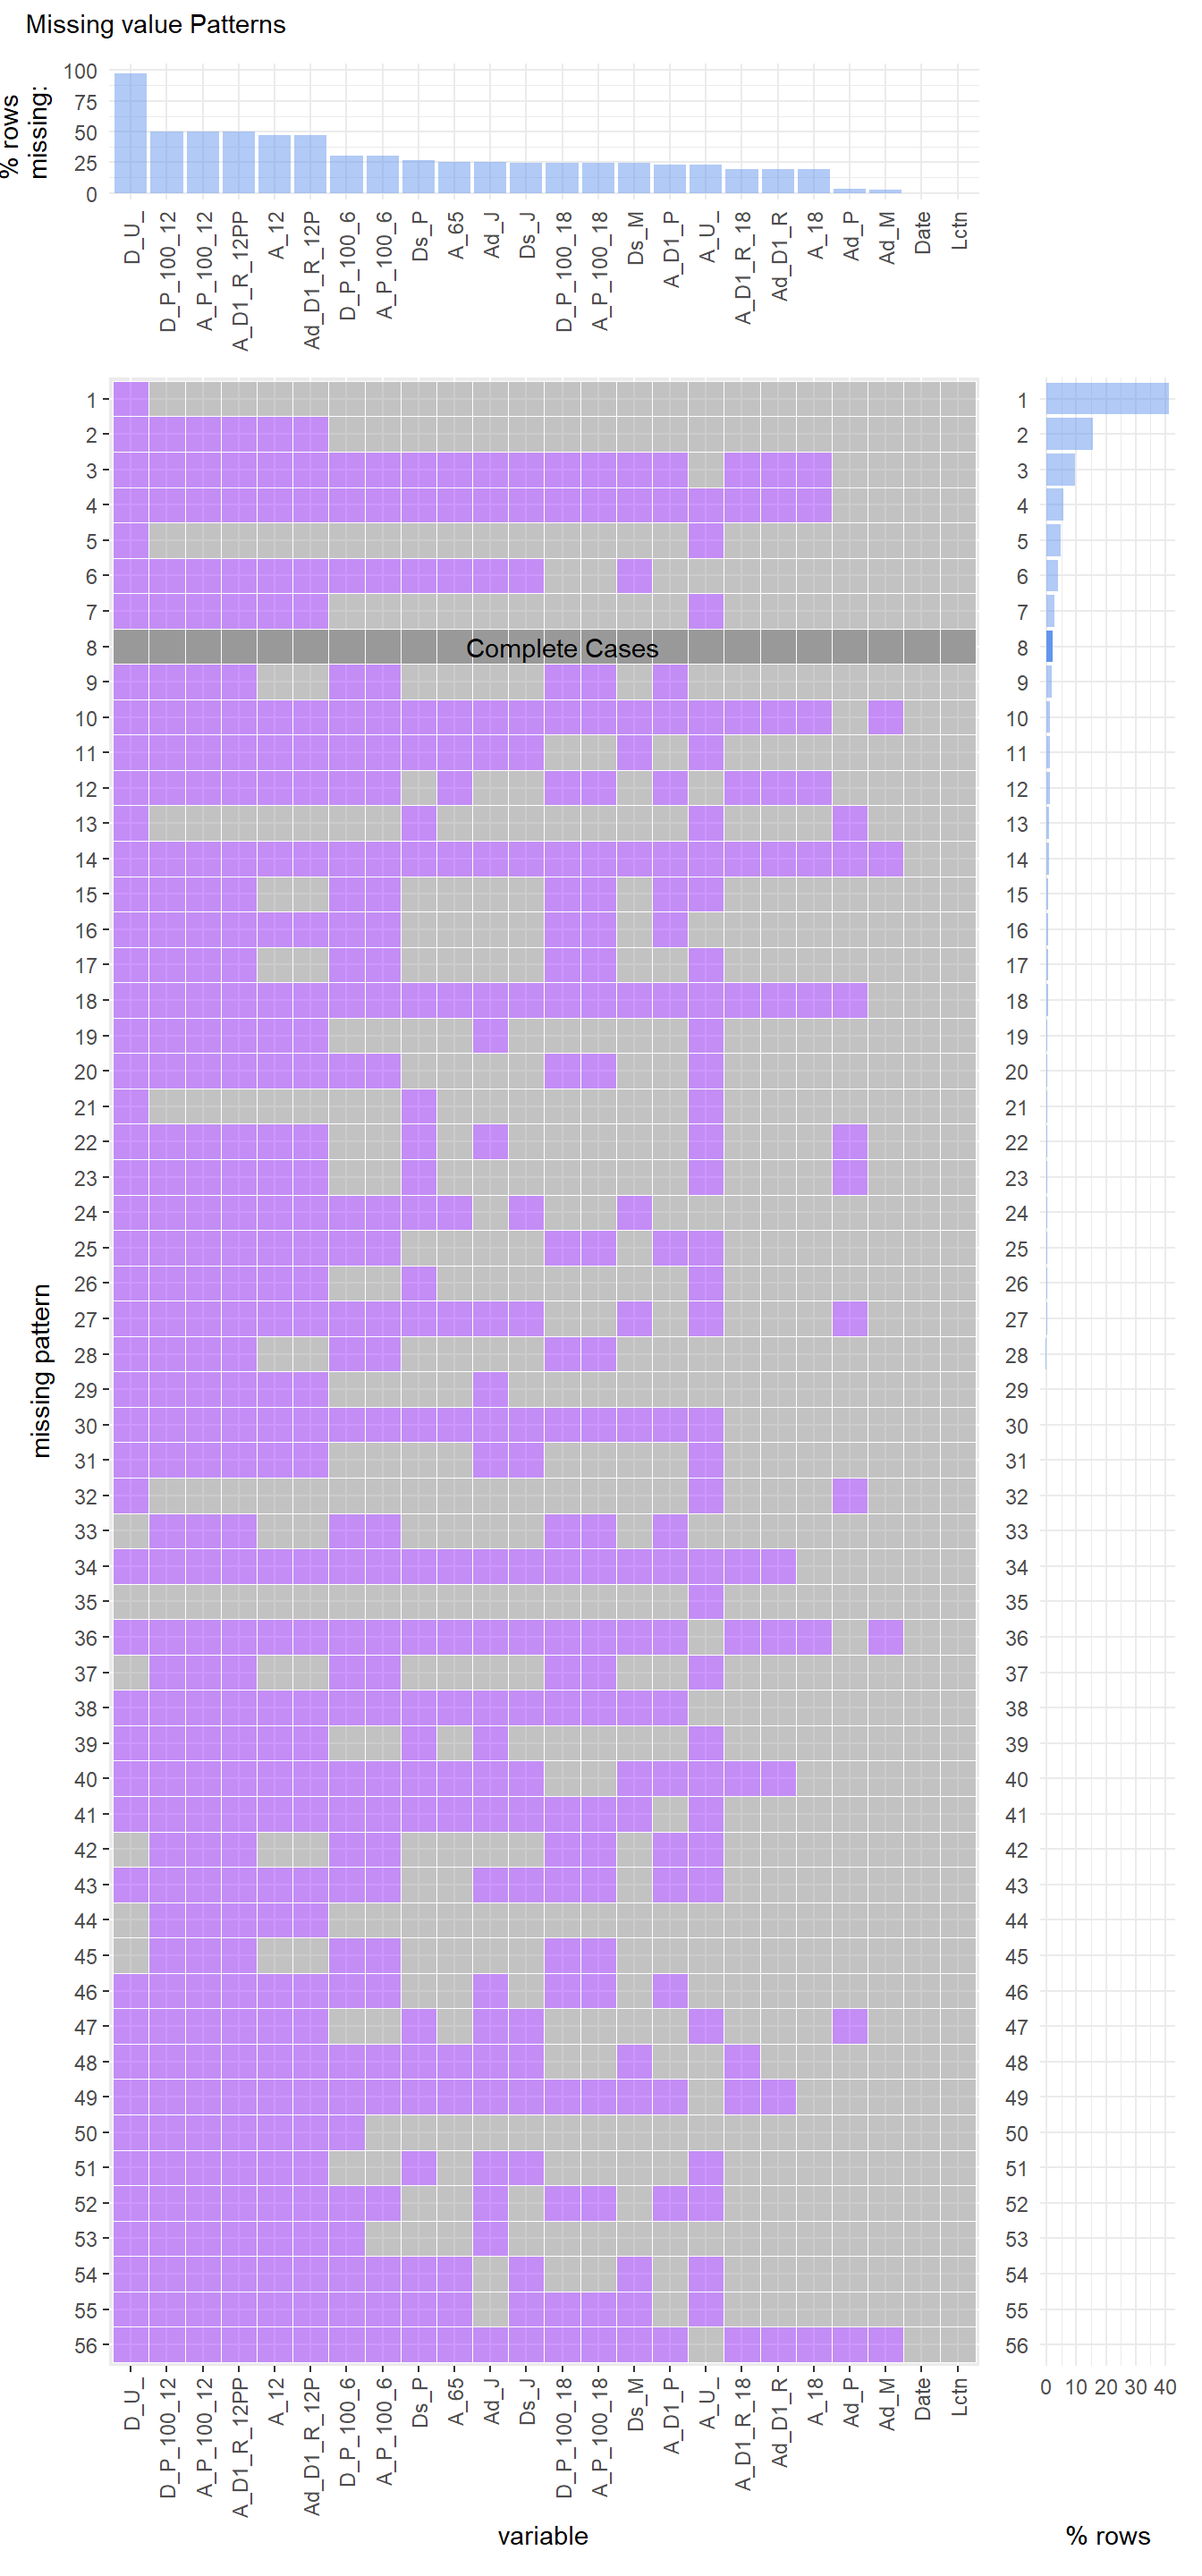
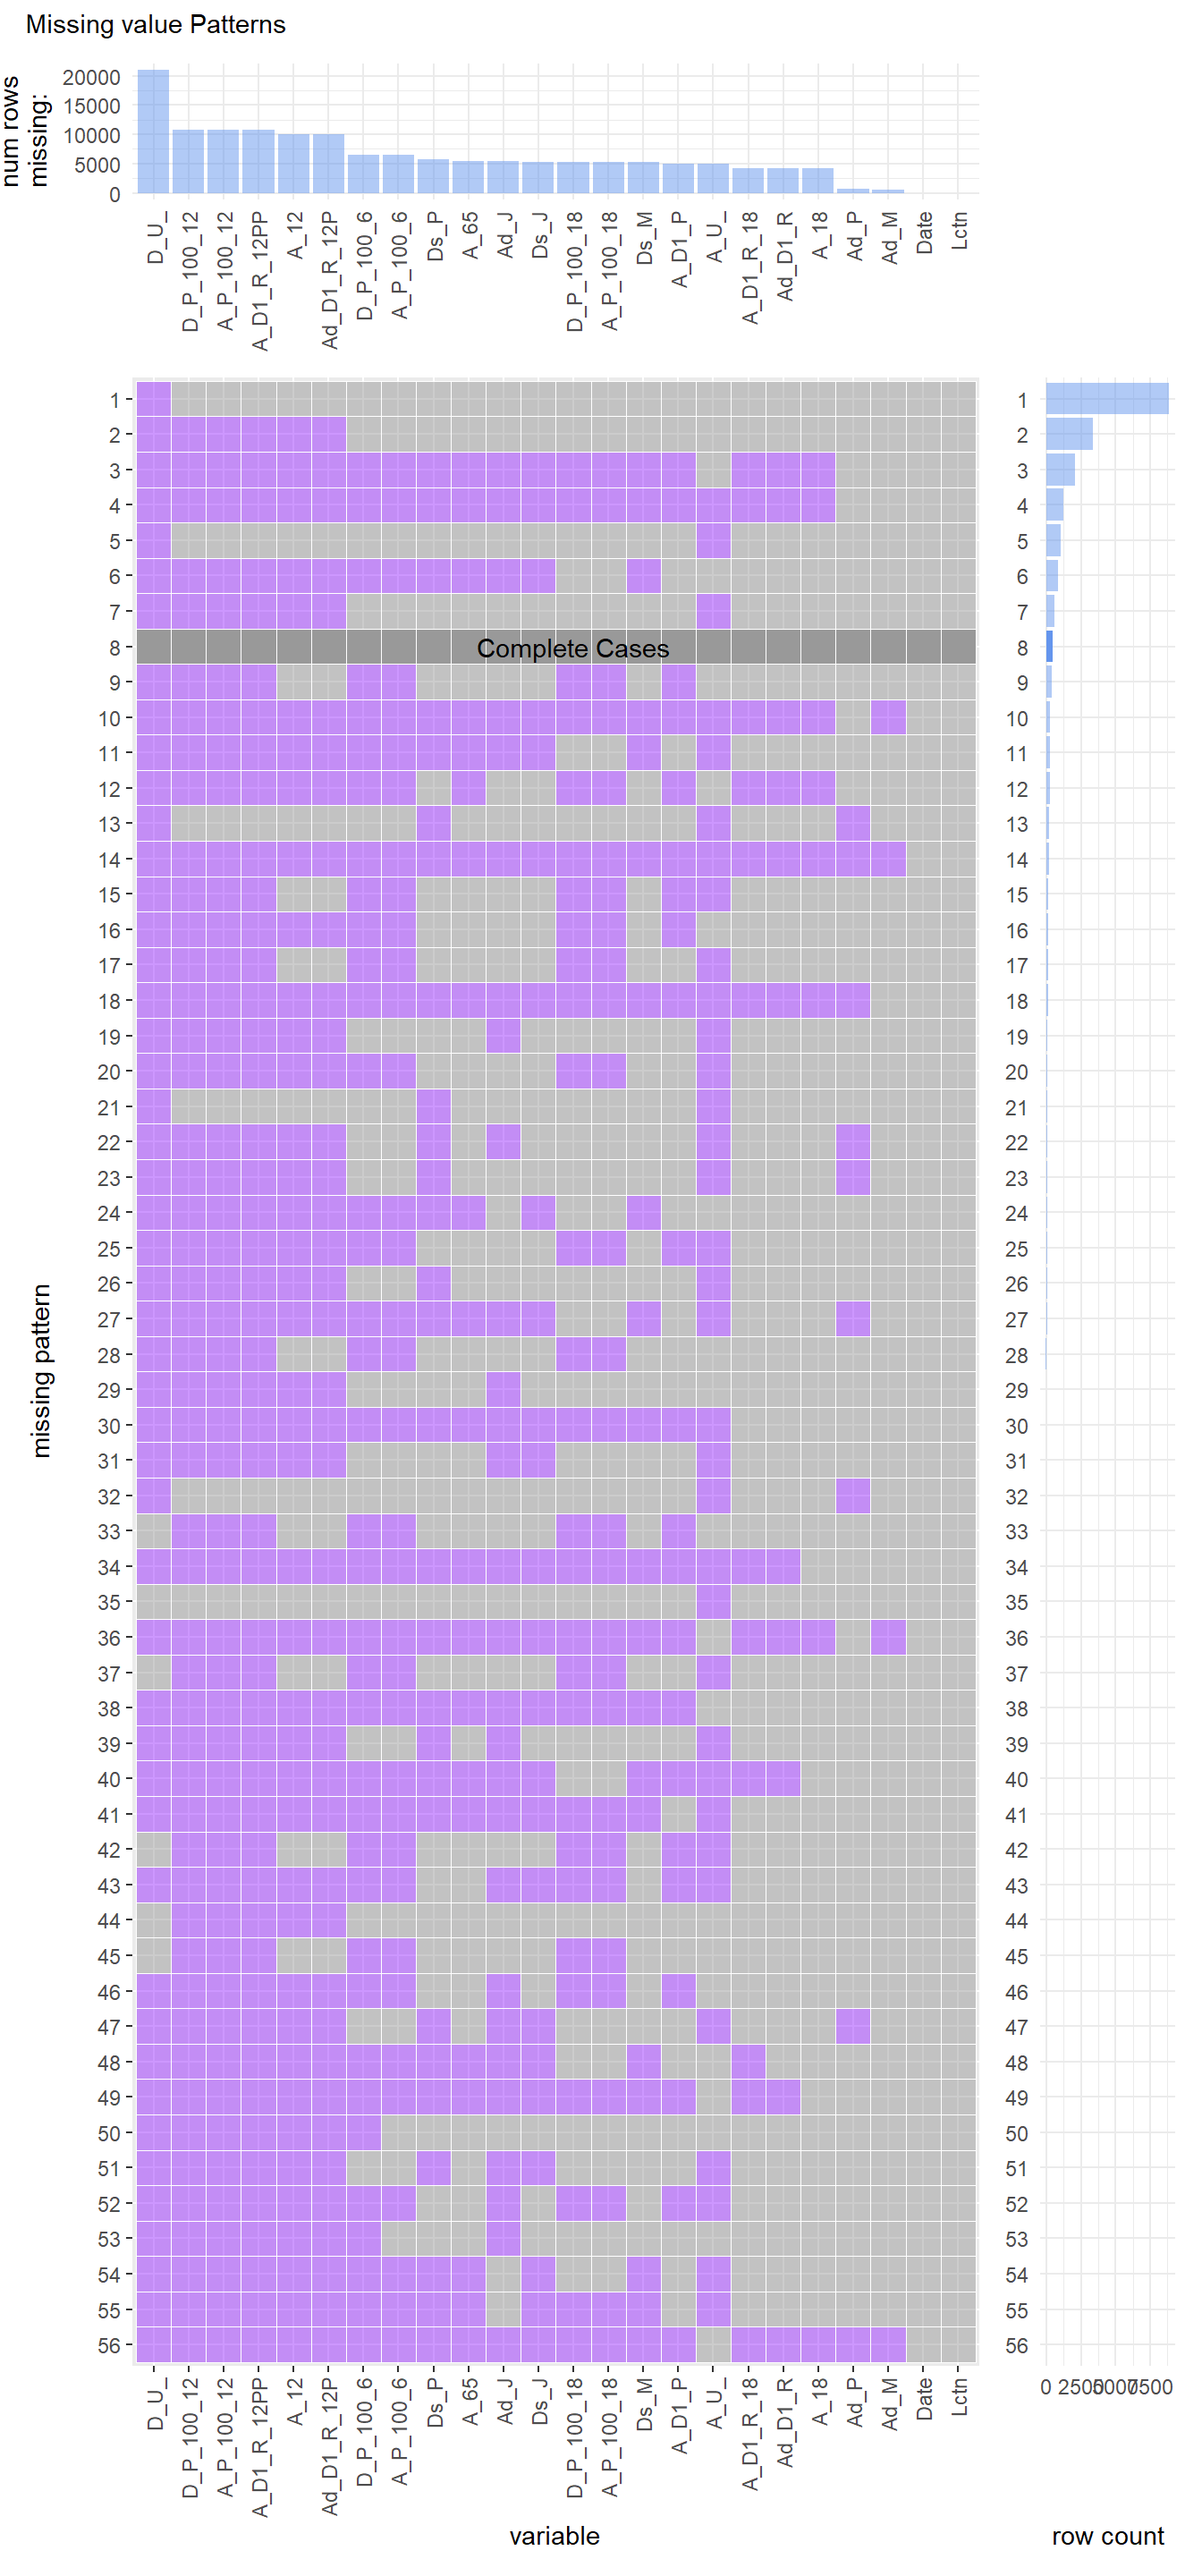
Added some explanation for missing value plot

diff --git a/docs/missing-values.html b/docs/missing-values.html
@@ -130,7 +130,8 @@
 <h2><span class="header-section-number">4.1</span> Missing Value Analysis for CDC COVID-19 Vaccination Dataset</h2>
 <div id="missing-value-pattern-plot" class="section level3" number="4.1.1">
 <h3><span class="header-section-number">4.1.1</span> Missing Value Pattern Plot</h3>
-<p><img src="finalproj_files/figure-html/unnamed-chunk-6-1.png" width="672" /></p>
+<p><code>column name on xticks are abbreviated and rotated by 90 degree to avoid overlapping due to large column names</code></p>
+<p><img src="finalproj_files/figure-html/unnamed-chunk-6-1.png" width="672" /><img src="finalproj_files/figure-html/unnamed-chunk-6-2.png" width="672" /></p>
 <p>The vaccine dataset consists of 56 unique missing patterns. The most common pattern is when there are missing values in the first column which consists of around 90 percent of all the rows. Also, the dataset consist of a few number of rows with no missing values in them. Further, the last two columns do not contain any missing values in them.</p>
 </div>
 <div id="cleveland-plot" class="section level3" number="4.1.2">
@@ -194,7 +195,7 @@
 </div>
 <div id="missing-value-patterns-plot-analysis" class="section level3" number="4.3.3">
 <h3><span class="header-section-number">4.3.3</span> Missing Value Patterns Plot Analysis</h3>
-<p><img src="finalproj_files/figure-html/unnamed-chunk-25-1.png" width="672" /></p>
+<p><img src="finalproj_files/figure-html/unnamed-chunk-25-1.png" width="672" /><img src="finalproj_files/figure-html/unnamed-chunk-25-2.png" width="672" /></p>
 <p>From the plots above we can deduce that <code>Property Crime Total</code> and <code>Larceny-theft</code> have roughly the same percentage of missing rows. We can observe that there are 12 unique missing patterns. We also observe that about 90% of the data does not have any missing values in them. <code>Property Crime Total</code> and <code>Larceny-theft</code> contribute towards most of the missing values while other variables have relatively lower missing values.</p>
 
 </div>
